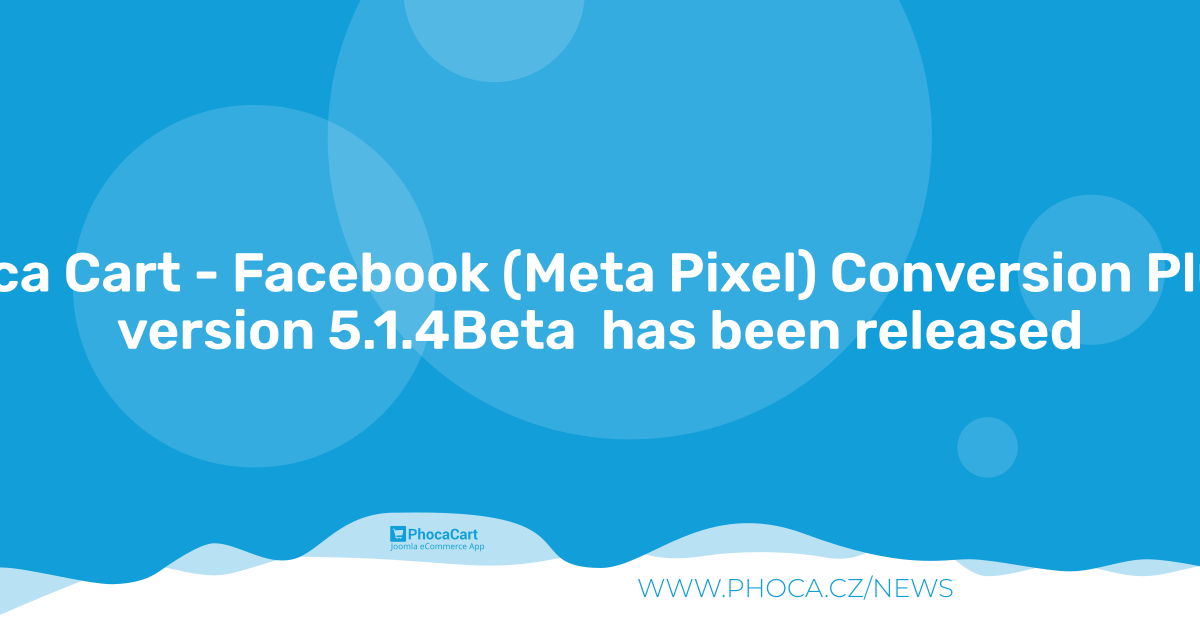
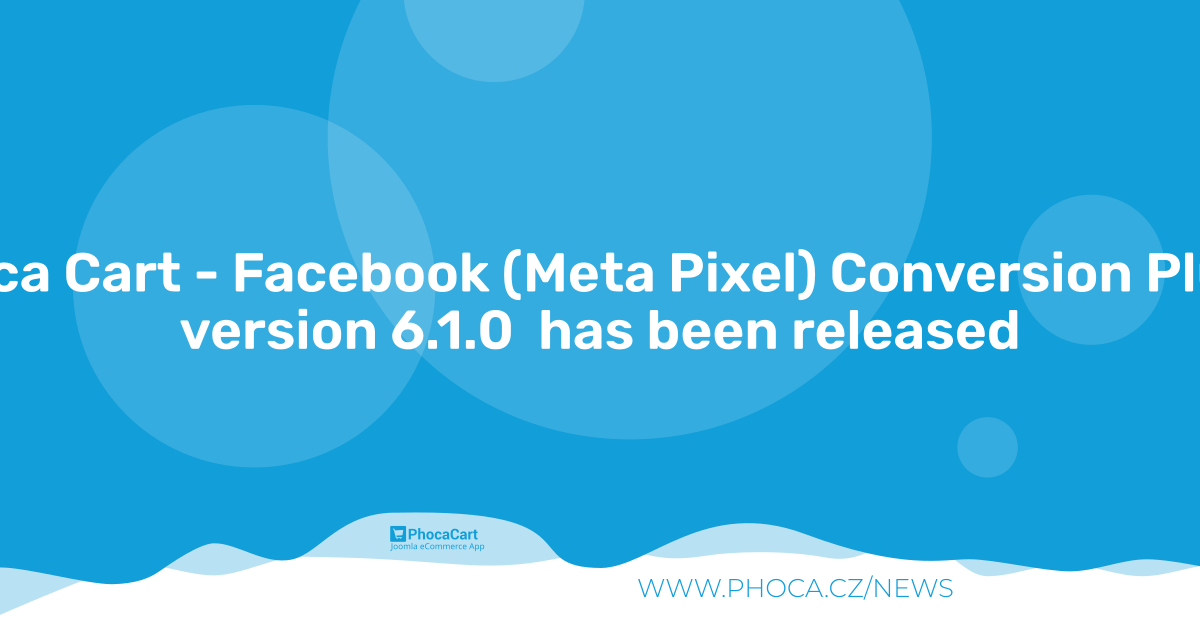
6.1.0

Changed region(s): [[0.0925, 0.4825, 0.925, 0.573]]

diff --git a/README.MD b/README.MD
@@ -54,7 +54,7 @@ Phoca Cart - Facebook (Meta Pixel) Conversion Tracking Plugin - plugin that inse
 
 ## Version (Joomla! 5.x)
 
-5.1.4Beta
+5.4.1
 
 
 